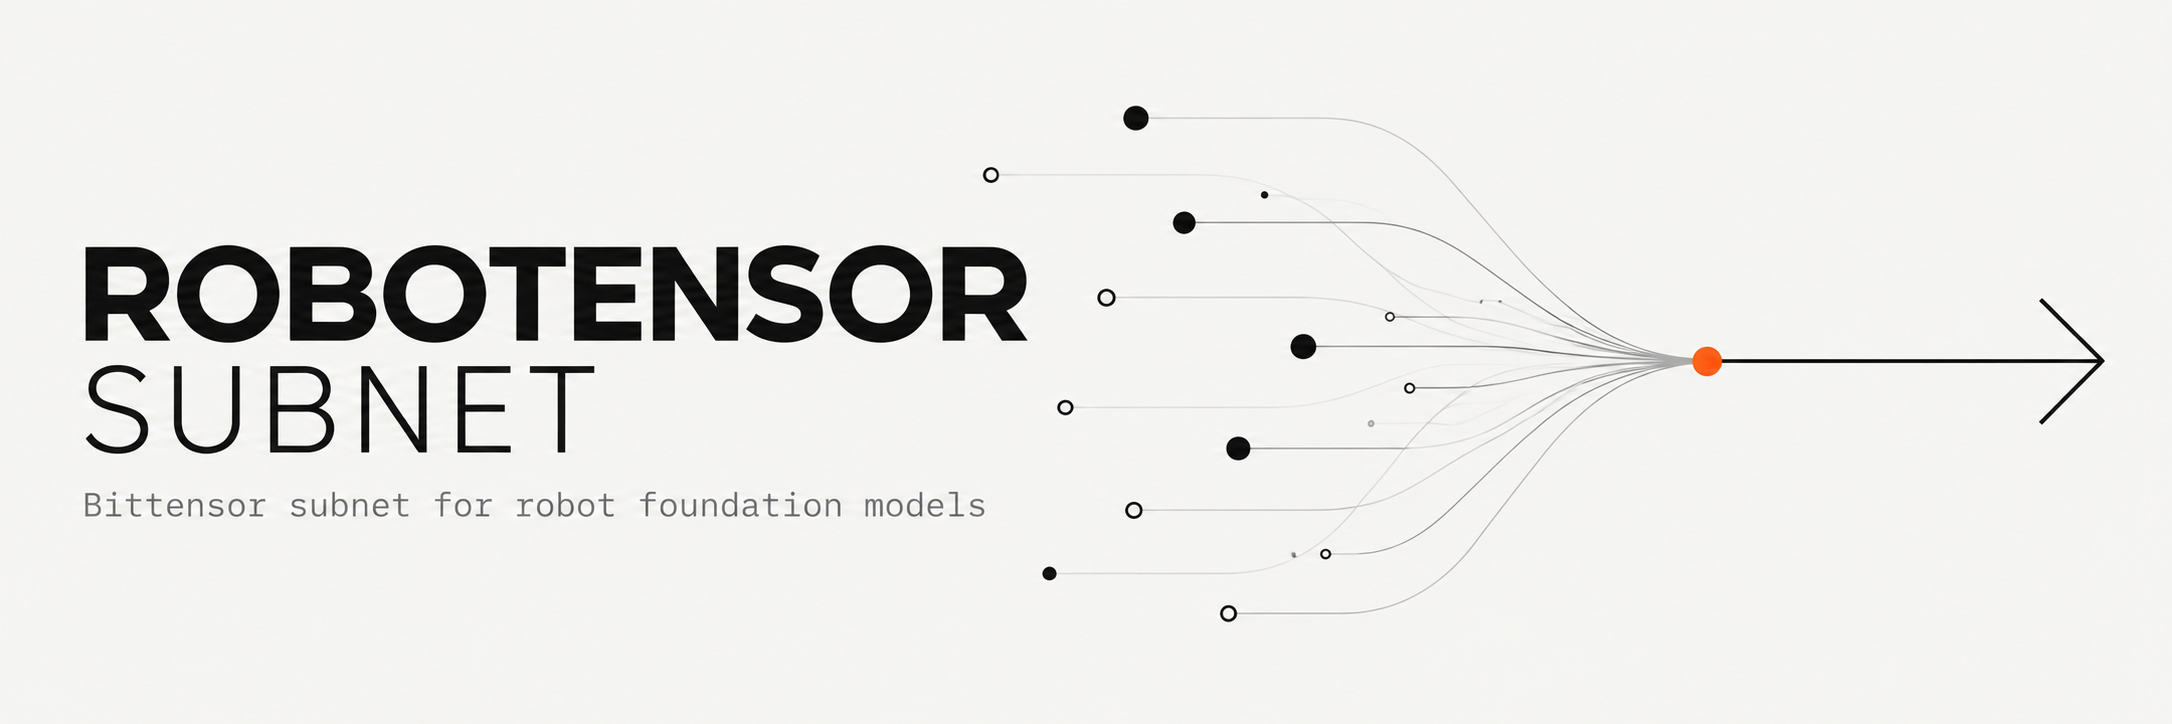
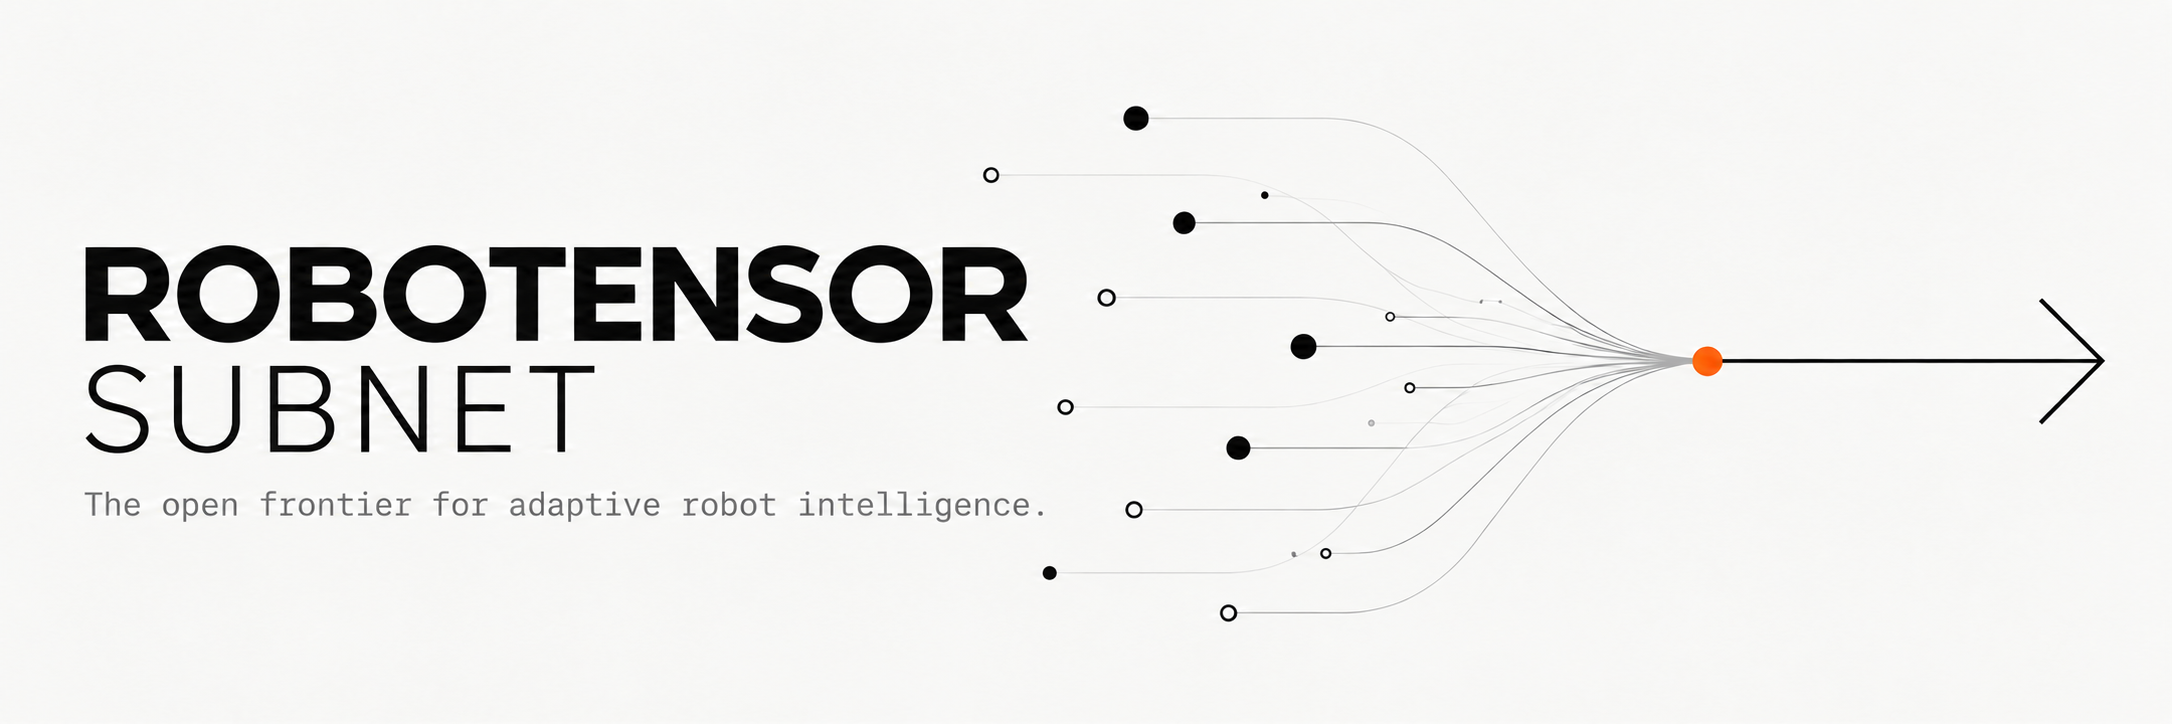
docs: new header image

diff --git a/README.md b/README.md
@@ -1,5 +1,5 @@
 <p align="center">
-  <img src="assets/header.png" alt="Robotensor Subnet: Bittensor subnet for robot foundation models" width="100%">
+  <img src="assets/header.png" alt="Robotensor Subnet: the open frontier for adaptive robot intelligence" width="100%">
 </p>
 
 <p align="center">
